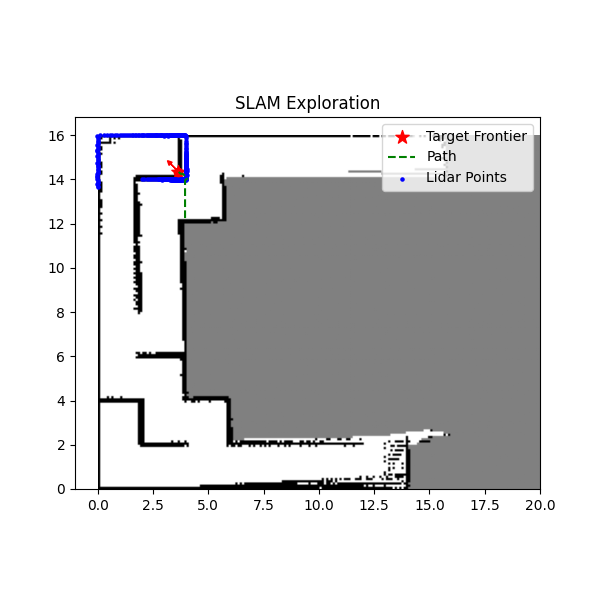
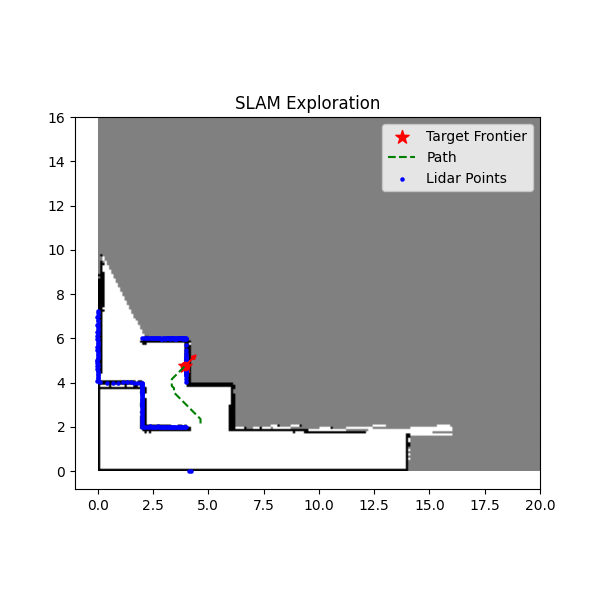
1

diff --git a/icp_slam.py b/icp_slam.py
@@ -101,9 +101,11 @@ class ICPSlam:
         
         # 可以考虑在GPU上进行这部分计算，但由于涉及多重条件判断，目前在CPU上处理
         pts_local = []
+        # 计算80%的最大范围阈值
+        far_threshold = self.get_max_range() * 0.8
         for i, dist in enumerate(scan):
-            if dist >= self.get_max_range():
-                # 距离为最大范围，未击中障碍，跳过作为特征点（不加入ICP匹配）
+            if dist >= self.get_max_range() or dist > far_threshold:
+                # 距离为最大范围或超过80%最大范围，未击中障碍或距离太远，跳过作为特征点（不加入ICP匹配）
                 continue
             angle = self.theta + angles_np[i]
             px = self.x + dist * math.cos(angle)
@@ -221,6 +223,8 @@ class ICPSlam:
         # 获取机器人在栅格中的索引
         rx = int((self.x - self.min_x) / self.resolution)
         ry = int((self.y - self.min_y) / self.resolution)
+        # 80%的最大范围阈值
+        far_threshold = self.get_max_range() * 0.8
         # 更新占据栅格地图，根据扫描结果
         for i, dist in enumerate(scan):
             beam_angle = self.theta + (angles_np[i] if 'angles_np' in locals() else math.radians(i))
@@ -247,8 +251,8 @@ class ICPSlam:
             if ty > max_y_idx: ty = max_y_idx
             # 获取栅格直线路径
             line = self._bresenham(rx, ry, tx, ty)
-            if dist < self.get_max_range():
-                # 有障碍命中：最后一点为障碍
+            if dist < self.get_max_range() and dist <= far_threshold:
+                # 有障碍命中且在80%范围内：最后一点为障碍
                 for cell in line[:-1]:
                     cx, cy = cell
                     # 如果当前未知，则标记为空闲

diff --git a/lidar.py b/lidar.py
@@ -65,3 +65,18 @@ class Lidar:
                 measured_dist = self.max_range
             distances.append(measured_dist)
         return distances
+    
+        
+    def is_far_range(self, dist, threshold_ratio=0.8):
+        """
+        判断测量距离是否超出最大探测范围的指定比例
+        
+        参数:
+        - dist: 测量距离
+        - threshold_ratio: 阈值比例，默认为0.8（80%）
+        
+        返回:
+        - True: 如果距离超出最大范围的threshold_ratio
+        - False: 如果距离在范围内
+        """
+        return dist >= self.max_range * threshold_ratio
